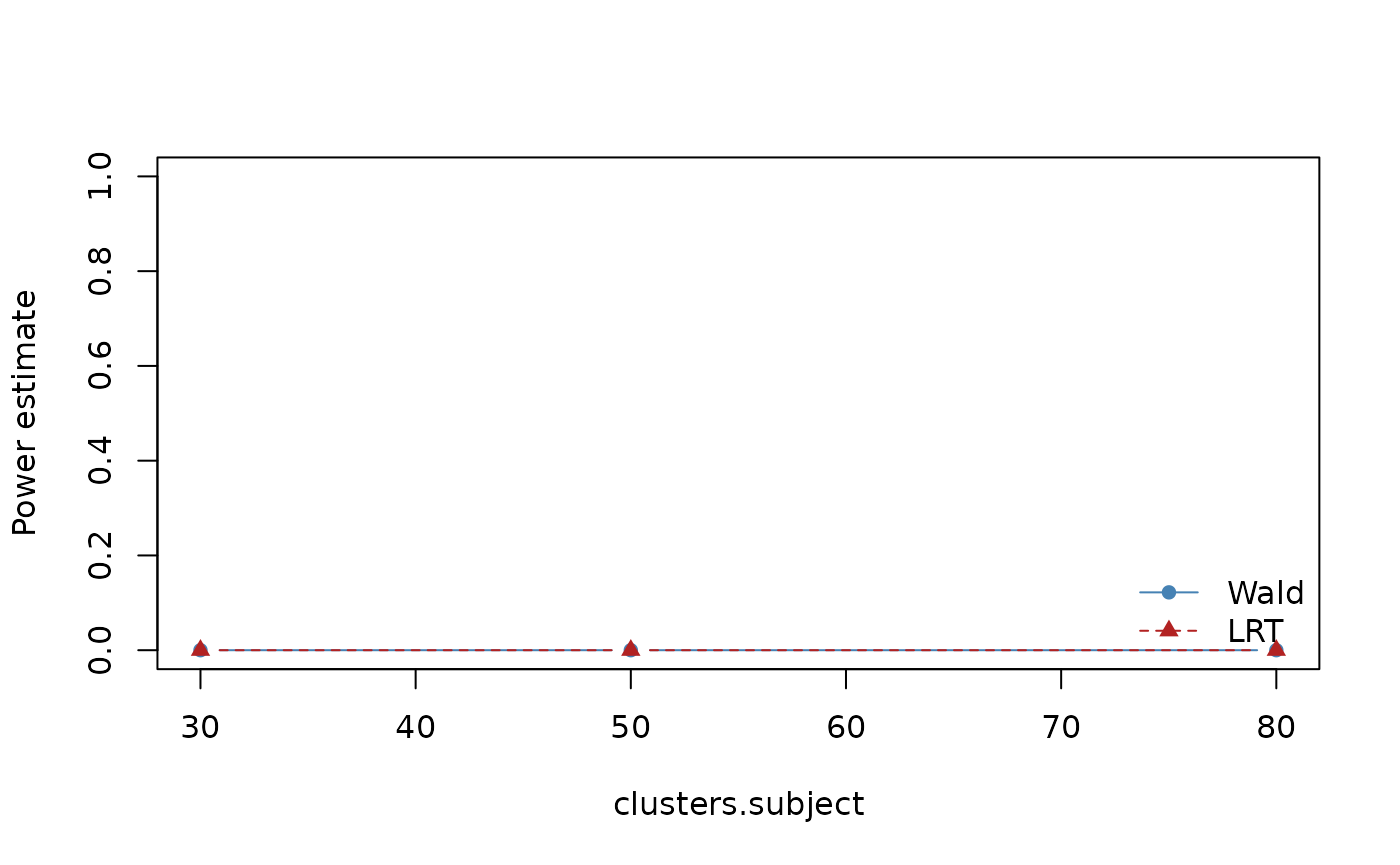
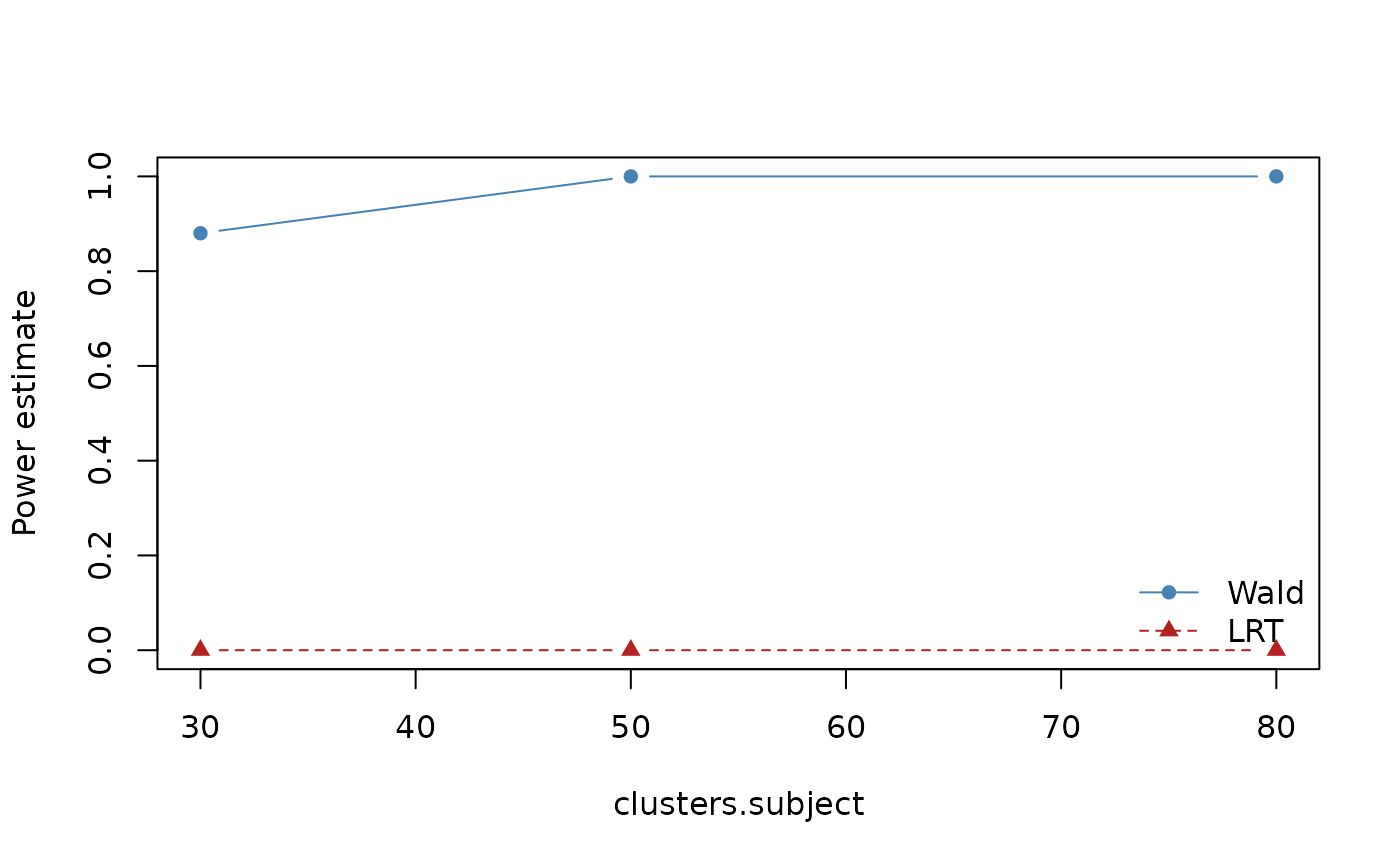
Deploying to gh-pages from @ alitovchenko/mixpower@3a943e7083a664c32a773ce0770256fef2704724 🚀

diff --git a/articles/mixpower-intro.html b/articles/mixpower-intro.html
@@ -296,13 +296,13 @@ transparent.</p>
 <span>  <span class="st">"method"</span>, <span class="st">"clusters.subject"</span>, <span class="st">"estimate"</span>, <span class="st">"mcse"</span>,</span>
 <span>  <span class="st">"conf_low"</span>, <span class="st">"conf_high"</span>, <span class="st">"failure_rate"</span>, <span class="st">"singular_rate"</span></span>
 <span><span class="op">)</span><span class="op">]</span></span>
-<span><span class="co">#&gt;   method clusters.subject estimate mcse conf_low conf_high failure_rate</span></span>
-<span><span class="co">#&gt; 1   wald               30        0    0        0         0            0</span></span>
-<span><span class="co">#&gt; 2   wald               50        0    0        0         0            0</span></span>
-<span><span class="co">#&gt; 3   wald               80        0    0        0         0            0</span></span>
-<span><span class="co">#&gt; 4    lrt               30        0    0        0         0            0</span></span>
-<span><span class="co">#&gt; 5    lrt               50        0    0        0         0            0</span></span>
-<span><span class="co">#&gt; 6    lrt               80        0    0        0         0            0</span></span>
+<span><span class="co">#&gt;   method clusters.subject estimate      mcse  conf_low conf_high failure_rate</span></span>
+<span><span class="co">#&gt; 1   wald               30     0.88 0.0459565 0.7899269 0.9700731            0</span></span>
+<span><span class="co">#&gt; 2   wald               50     1.00 0.0000000 1.0000000 1.0000000            0</span></span>
+<span><span class="co">#&gt; 3   wald               80     1.00 0.0000000 1.0000000 1.0000000            0</span></span>
+<span><span class="co">#&gt; 4    lrt               30     0.00 0.0000000 0.0000000 0.0000000            0</span></span>
+<span><span class="co">#&gt; 5    lrt               50     0.00 0.0000000 0.0000000 0.0000000            0</span></span>
+<span><span class="co">#&gt; 6    lrt               80     0.00 0.0000000 0.0000000 0.0000000            0</span></span>
 <span><span class="co">#&gt;   singular_rate</span></span>
 <span><span class="co">#&gt; 1          0.46</span></span>
 <span><span class="co">#&gt; 2          0.54</span></span>
@@ -381,13 +381,13 @@ p-values), preserving transparency.</p>
 <span><span class="co">#&gt; boundary (singular) fit: see help('isSingular')</span></span>
 <span><span class="fu"><a href="https://rdrr.io/r/base/summary.html" class="external-link">summary</a></span><span class="op">(</span><span class="va">res_bin</span><span class="op">)</span></span>
 <span><span class="co">#&gt; $power</span></span>
-<span><span class="co">#&gt; [1] 0</span></span>
+<span><span class="co">#&gt; [1] 0.62</span></span>
 <span><span class="co">#&gt; </span></span>
 <span><span class="co">#&gt; $mcse</span></span>
-<span><span class="co">#&gt; [1] 0</span></span>
+<span><span class="co">#&gt; [1] 0.06864401</span></span>
 <span><span class="co">#&gt; </span></span>
 <span><span class="co">#&gt; $ci</span></span>
-<span><span class="co">#&gt; [1] 0 0</span></span>
+<span><span class="co">#&gt; [1] 0.4854602 0.7545398</span></span>
 <span><span class="co">#&gt; </span></span>
 <span><span class="co">#&gt; $diagnostics</span></span>
 <span><span class="co">#&gt; $diagnostics$fail_rate</span></span>
@@ -441,10 +441,10 @@ p-values), preserving transparency.</p>
 <p><img src="mixpower-intro_files/figure-html/binomial-sensitivity-1.png" class="r-plt" alt="" width="700"></p>
 <div class="sourceCode" id="cb5"><pre class="downlit sourceCode r">
 <code class="sourceCode R"><span><span class="va">sens_bin</span><span class="op">$</span><span class="va">results</span></span>
-<span><span class="co">#&gt;   fixed_effects.condition estimate mcse conf_low conf_high failure_rate</span></span>
-<span><span class="co">#&gt; 1                     0.2        0    0        0         0            0</span></span>
-<span><span class="co">#&gt; 2                     0.4        0    0        0         0            0</span></span>
-<span><span class="co">#&gt; 3                     0.6        0    0        0         0            0</span></span>
+<span><span class="co">#&gt;   fixed_effects.condition estimate       mcse   conf_low conf_high failure_rate</span></span>
+<span><span class="co">#&gt; 1                     0.2     0.16 0.05184593 0.05838385 0.2616161            0</span></span>
+<span><span class="co">#&gt; 2                     0.4     0.42 0.06979971 0.28319508 0.5568049            0</span></span>
+<span><span class="co">#&gt; 3                     0.6     0.84 0.05184593 0.73838385 0.9416161            0</span></span>
 <span><span class="co">#&gt;   singular_rate n_effective nsim</span></span>
 <span><span class="co">#&gt; 1          0.12          50   50</span></span>
 <span><span class="co">#&gt; 2          0.10          50   50</span></span>
@@ -477,13 +477,13 @@ over-dispersion.</p>
 <span><span class="va">res_pois</span> <span class="op">&lt;-</span> <span class="fu"><a href="../reference/mp_power.html">mp_power</a></span><span class="op">(</span><span class="va">scn_pois</span>, nsim <span class="op">=</span> <span class="fl">50</span>, seed <span class="op">=</span> <span class="fl">123</span><span class="op">)</span></span>
 <span><span class="fu"><a href="https://rdrr.io/r/base/summary.html" class="external-link">summary</a></span><span class="op">(</span><span class="va">res_pois</span><span class="op">)</span></span>
 <span><span class="co">#&gt; $power</span></span>
-<span><span class="co">#&gt; [1] 0</span></span>
+<span><span class="co">#&gt; [1] 0.96</span></span>
 <span><span class="co">#&gt; </span></span>
 <span><span class="co">#&gt; $mcse</span></span>
-<span><span class="co">#&gt; [1] 0</span></span>
+<span><span class="co">#&gt; [1] 0.02771281</span></span>
 <span><span class="co">#&gt; </span></span>
 <span><span class="co">#&gt; $ci</span></span>
-<span><span class="co">#&gt; [1] 0 0</span></span>
+<span><span class="co">#&gt; [1] 0.9056839 1.0000000</span></span>
 <span><span class="co">#&gt; </span></span>
 <span><span class="co">#&gt; $diagnostics</span></span>
 <span><span class="co">#&gt; $diagnostics$fail_rate</span></span>
@@ -521,13 +521,13 @@ over-dispersion.</p>
 <span><span class="co">#&gt; boundary (singular) fit: see help('isSingular')</span></span>
 <span><span class="fu"><a href="https://rdrr.io/r/base/summary.html" class="external-link">summary</a></span><span class="op">(</span><span class="va">res_nb</span><span class="op">)</span></span>
 <span><span class="co">#&gt; $power</span></span>
-<span><span class="co">#&gt; [1] 0</span></span>
+<span><span class="co">#&gt; [1] 0.84</span></span>
 <span><span class="co">#&gt; </span></span>
 <span><span class="co">#&gt; $mcse</span></span>
-<span><span class="co">#&gt; [1] 0</span></span>
+<span><span class="co">#&gt; [1] 0.05184593</span></span>
 <span><span class="co">#&gt; </span></span>
 <span><span class="co">#&gt; $ci</span></span>
-<span><span class="co">#&gt; [1] 0 0</span></span>
+<span><span class="co">#&gt; [1] 0.7383839 0.9416161</span></span>
 <span><span class="co">#&gt; </span></span>
 <span><span class="co">#&gt; $diagnostics</span></span>
 <span><span class="co">#&gt; $diagnostics$fail_rate</span></span>
@@ -575,8 +575,10 @@ over-dispersion.</p>
 <span><span class="fu"><a href="https://rdrr.io/r/graphics/plot.default.html" class="external-link">plot</a></span><span class="op">(</span><span class="va">sens_pois</span><span class="op">)</span></span></code></pre></div>
 <p><img src="mixpower-intro_files/figure-html/count-sensitivity-1.png" class="r-plt" alt="" width="700"></p>
 <div class="sourceCode" id="cb8"><pre class="downlit sourceCode r">
-<code class="sourceCode R"><span><span class="fu"><a href="https://rdrr.io/r/graphics/plot.default.html" class="external-link">plot</a></span><span class="op">(</span><span class="va">sens_nb</span><span class="op">)</span></span>
-<span></span>
+<code class="sourceCode R"><span><span class="fu"><a href="https://rdrr.io/r/graphics/plot.default.html" class="external-link">plot</a></span><span class="op">(</span><span class="va">sens_nb</span><span class="op">)</span></span></code></pre></div>
+<p><img src="mixpower-intro_files/figure-html/count-sensitivity-2.png" class="r-plt" alt="" width="700"></p>
+<div class="sourceCode" id="cb9"><pre class="downlit sourceCode r">
+<code class="sourceCode R"><span></span>
 <span><span class="co"># Compare power estimates and failure/singularity rates across Poisson vs NB.</span></span>
 <span><span class="co"># Overdispersion can reduce power relative to Poisson.</span></span>
 <span><span class="co"># Increase nsim for final reports.</span></span></code></pre></div>

diff --git a/articles/mixpower-reproducibility.html b/articles/mixpower-reproducibility.html
@@ -148,10 +148,10 @@ repo.</p>
 <span><span class="co">#&gt; &lt;mp_manifest&gt;</span></span>
 <span><span class="co">#&gt;   scenario_digest: 9b663cd7e54e2ee4 ...</span></span>
 <span><span class="co">#&gt;   seed:123 (fixed)</span></span>
-<span><span class="co">#&gt;   timestamp: 2026-06-13 19:53:18 UTC </span></span>
+<span><span class="co">#&gt;   timestamp: 2026-06-15 21:05:06 UTC </span></span>
 <span><span class="co">#&gt;   r_version: 4.6.0 </span></span>
 <span><span class="co">#&gt;   mixpower_version: 0.2.0 </span></span>
-<span><span class="co">#&gt;   git_sha: 75b3868</span></span></code></pre></div>
+<span><span class="co">#&gt;   git_sha: 3a943e7</span></span></code></pre></div>
 </div>
 <div class="section level2">
 <h2 id="bundle-results-and-export">Bundle results and export<a class="anchor" aria-label="anchor" href="#bundle-results-and-export"></a>
@@ -175,15 +175,17 @@ and labels) to disk.</p>
 <span><span class="co">#&gt; &lt;mp_manifest&gt;</span></span>
 <span><span class="co">#&gt;   scenario_digest: 9b663cd7e54e2ee4 ...</span></span>
 <span><span class="co">#&gt;   seed:123 (fixed)</span></span>
-<span><span class="co">#&gt;   timestamp: 2026-06-13 19:53:18 UTC </span></span>
+<span><span class="co">#&gt;   timestamp: 2026-06-15 21:05:06 UTC </span></span>
 <span><span class="co">#&gt;   r_version: 4.6.0 </span></span>
 <span><span class="co">#&gt;   mixpower_version: 0.2.0 </span></span>
-<span><span class="co">#&gt;   git_sha: 75b3868</span></span></code></pre></div>
+<span><span class="co">#&gt;   git_sha: 3a943e7</span></span></code></pre></div>
 <div class="sourceCode" id="cb4"><pre class="downlit sourceCode r">
 <code class="sourceCode R"><span><span class="va">tab</span> <span class="op">&lt;-</span> <span class="fu"><a href="../reference/mp_report_table.html">mp_report_table</a></span><span class="op">(</span><span class="va">bundle</span><span class="op">)</span></span>
 <span><span class="va">tab</span></span>
-<span><span class="co">#&gt;   power_estimate ci_low ci_high failure_rate singular_rate n_effective nsim</span></span>
-<span><span class="co">#&gt; 1              0      0       0            0          0.55          20   20</span></span></code></pre></div>
+<span><span class="co">#&gt;   power_estimate    ci_low   ci_high failure_rate singular_rate n_effective</span></span>
+<span><span class="co">#&gt; 1            0.5 0.2808694 0.7191306            0          0.55          20</span></span>
+<span><span class="co">#&gt;   nsim</span></span>
+<span><span class="co">#&gt; 1   20</span></span></code></pre></div>
 <div class="sourceCode" id="cb5"><pre class="downlit sourceCode r">
 <code class="sourceCode R"><span><span class="fu"><a href="../reference/mp_write_results.html">mp_write_results</a></span><span class="op">(</span><span class="va">bundle</span>, <span class="st">"power_results.csv"</span>, format <span class="op">=</span> <span class="st">"csv"</span>, row.names <span class="op">=</span> <span class="cn">FALSE</span><span class="op">)</span></span>
 <span><span class="fu"><a href="../reference/mp_write_results.html">mp_write_results</a></span><span class="op">(</span><span class="va">bundle</span>, <span class="st">"power_results.json"</span>, format <span class="op">=</span> <span class="st">"json"</span><span class="op">)</span></span></code></pre></div>
@@ -246,9 +248,9 @@ to a log) by building it from the list, omitting the long
 <span><span class="co">#&gt;                                                    scenario_digest seed</span></span>
 <span><span class="co">#&gt; 1 9b663cd7e54e2ee4cef1c3f2b63b4796a86f4f365916fd35865354e676268028  123</span></span>
 <span><span class="co">#&gt;   seed_strategy               timestamp r_version mixpower_version</span></span>
-<span><span class="co">#&gt; 1         fixed 2026-06-13 19:53:19 UTC     4.6.0            0.2.0</span></span>
+<span><span class="co">#&gt; 1         fixed 2026-06-15 21:05:06 UTC     4.6.0            0.2.0</span></span>
 <span><span class="co">#&gt;                                    git_sha</span></span>
-<span><span class="co">#&gt; 1 75b3868b73f6d1160000af15fbcd911f509ab459</span></span></code></pre></div>
+<span><span class="co">#&gt; 1 3a943e7083a664c32a773ce0770256fef2704724</span></span></code></pre></div>
 </div>
   </div>
 

diff --git a/articles/mixpower-diagnostics.html b/articles/mixpower-diagnostics.html
@@ -153,10 +153,10 @@ summarize sensitivity analyses with <code><a href="../reference/mp_sensitivity.h
 <span><span class="co">#&gt; boundary (singular) fit: see help('isSingular')</span></span>
 <span></span>
 <span><span class="va">sens</span><span class="op">$</span><span class="va">results</span><span class="op">[</span>, <span class="fu"><a href="https://rdrr.io/r/base/c.html" class="external-link">c</a></span><span class="op">(</span><span class="st">"estimate"</span>, <span class="st">"mcse"</span>, <span class="st">"failure_rate"</span>, <span class="st">"singular_rate"</span><span class="op">)</span><span class="op">]</span></span>
-<span><span class="co">#&gt;   estimate mcse failure_rate singular_rate</span></span>
-<span><span class="co">#&gt; 1        0    0            0           0.7</span></span>
-<span><span class="co">#&gt; 2        0    0            0           0.8</span></span>
-<span><span class="co">#&gt; 3        0    0            0           0.9</span></span></code></pre></div>
+<span><span class="co">#&gt;   estimate       mcse failure_rate singular_rate</span></span>
+<span><span class="co">#&gt; 1      0.1 0.09486833            0           0.7</span></span>
+<span><span class="co">#&gt; 2      0.7 0.14491377            0           0.8</span></span>
+<span><span class="co">#&gt; 3      0.8 0.12649111            0           0.9</span></span></code></pre></div>
   </div>
 
   <div class="col-md-3 hidden-xs hidden-sm" id="pkgdown-sidebar">

diff --git a/articles/mixpower-simulations.html b/articles/mixpower-simulations.html
@@ -129,13 +129,13 @@ to summarize results with <code><a href="https://rdrr.io/r/base/summary.html" cl
 <span><span class="co">#&gt; boundary (singular) fit: see help('isSingular')</span></span>
 <span><span class="fu"><a href="https://rdrr.io/r/base/summary.html" class="external-link">summary</a></span><span class="op">(</span><span class="va">res</span><span class="op">)</span></span>
 <span><span class="co">#&gt; $power</span></span>
-<span><span class="co">#&gt; [1] 0</span></span>
+<span><span class="co">#&gt; [1] 0.7</span></span>
 <span><span class="co">#&gt; </span></span>
 <span><span class="co">#&gt; $mcse</span></span>
-<span><span class="co">#&gt; [1] 0</span></span>
+<span><span class="co">#&gt; [1] 0.1449138</span></span>
 <span><span class="co">#&gt; </span></span>
 <span><span class="co">#&gt; $ci</span></span>
-<span><span class="co">#&gt; [1] 0 0</span></span>
+<span><span class="co">#&gt; [1] 0.4159742 0.9840258</span></span>
 <span><span class="co">#&gt; </span></span>
 <span><span class="co">#&gt; $diagnostics</span></span>
 <span><span class="co">#&gt; $diagnostics$fail_rate</span></span>

diff --git a/reference/mixpower-package.html b/reference/mixpower-package.html
@@ -178,13 +178,13 @@ Vignettes: <code>vignette(package = "mixpower")</code>.</p></div>
 <span class="r-in"><span><span class="va">res</span> <span class="op">&lt;-</span> <span class="fu"><a href="mp_power.html">mp_power</a></span><span class="op">(</span><span class="va">scn</span>, nsim <span class="op">=</span> <span class="fl">50</span>, seed <span class="op">=</span> <span class="fl">123</span><span class="op">)</span></span></span>
 <span class="r-in"><span><span class="fu"><a href="https://rdrr.io/r/base/summary.html" class="external-link">summary</a></span><span class="op">(</span><span class="va">res</span><span class="op">)</span></span></span>
 <span class="r-out co"><span class="r-pr">#&gt;</span> $power</span>
-<span class="r-out co"><span class="r-pr">#&gt;</span> [1] 0</span>
+<span class="r-out co"><span class="r-pr">#&gt;</span> [1] 0.42</span>
 <span class="r-out co"><span class="r-pr">#&gt;</span> </span>
 <span class="r-out co"><span class="r-pr">#&gt;</span> $mcse</span>
-<span class="r-out co"><span class="r-pr">#&gt;</span> [1] 0</span>
+<span class="r-out co"><span class="r-pr">#&gt;</span> [1] 0.06979971</span>
 <span class="r-out co"><span class="r-pr">#&gt;</span> </span>
 <span class="r-out co"><span class="r-pr">#&gt;</span> $ci</span>
-<span class="r-out co"><span class="r-pr">#&gt;</span> [1] 0 0</span>
+<span class="r-out co"><span class="r-pr">#&gt;</span> [1] 0.2831951 0.5568049</span>
 <span class="r-out co"><span class="r-pr">#&gt;</span> </span>
 <span class="r-out co"><span class="r-pr">#&gt;</span> $diagnostics</span>
 <span class="r-out co"><span class="r-pr">#&gt;</span> $diagnostics$fail_rate</span>

diff --git a/reference/mp_quick_power.html b/reference/mp_quick_power.html
@@ -200,9 +200,9 @@ Include intercept as <code>(Intercept)</code> if needed.</p></dd>
 <span class="r-out co"><span class="r-pr">#&gt;</span>   nsim: 50</span>
 <span class="r-out co"><span class="r-pr">#&gt;</span>   alpha: 0.05</span>
 <span class="r-out co"><span class="r-pr">#&gt;</span>   failure_policy: count_as_nondetect</span>
-<span class="r-out co"><span class="r-pr">#&gt;</span>   power: 0.000</span>
-<span class="r-out co"><span class="r-pr">#&gt;</span>   mcse: 0.000</span>
-<span class="r-out co"><span class="r-pr">#&gt;</span>   95% CI: [0.000, 0.000]</span>
+<span class="r-out co"><span class="r-pr">#&gt;</span>   power: 0.640</span>
+<span class="r-out co"><span class="r-pr">#&gt;</span>   mcse: 0.068</span>
+<span class="r-out co"><span class="r-pr">#&gt;</span>   95% CI: [0.507, 0.773]</span>
 <span class="r-out co"><span class="r-pr">#&gt;</span>   diagnostics:</span>
 <span class="r-out co"><span class="r-pr">#&gt;</span>     - fail_rate: 0.000</span>
 <span class="r-out co"><span class="r-pr">#&gt;</span>     - singular_rate: 0.000</span>

diff --git a/news/index.html b/news/index.html
@@ -76,7 +76,8 @@
 <h2 class="page-header" data-toc-text="0.2.0" id="mixpower-020">mixpower 0.2.0<a class="anchor" aria-label="anchor" href="#mixpower-020"></a></h2>
 <div class="section level3">
 <h3 id="correctness-0-2-0">Correctness<a class="anchor" aria-label="anchor" href="#correctness-0-2-0"></a></h3>
-<ul><li>Fixed a defect where the Gaussian backends ignored the random-intercept SD: <code><a href="../reference/mp_scenario_lme4.html">mp_scenario_lme4()</a></code> / <code><a href="../reference/mp_scenario_glmmtmb_lmm.html">mp_scenario_glmmtmb_lmm()</a></code> always simulated a subject SD of 1, so <code><a href="../reference/mp_sensitivity.html">mp_sensitivity()</a></code> / <code><a href="../reference/mp_power_curve.html">mp_power_curve()</a></code> over a random-effect size had no effect. Random-effect SDs now flow from <code><a href="../reference/mp_assumptions.html">mp_assumptions()</a></code> for every family (Gaussian, binomial, Poisson, negative binomial).</li>
+<ul><li>Fixed a severe defect where every lme4-family Wald test errored internally (<code><a href="https://rdrr.io/r/base/diag.html" class="external-link">base::diag()</a></code> on the S4 <code>dpoMatrix</code> from <code>vcov(merMod)</code>), so <code><a href="../reference/mp_power.html">mp_power()</a></code> silently returned 0 for all lme4 Gaussian/binomial/Poisson/NB designs. The standard error is now read from the fitted-model coefficient table. Power is correct (≈1 at a strongly-powered design; ≈alpha under the null).</li>
+<li>Fixed a defect where the Gaussian backends ignored the random-intercept SD: <code><a href="../reference/mp_scenario_lme4.html">mp_scenario_lme4()</a></code> / <code><a href="../reference/mp_scenario_glmmtmb_lmm.html">mp_scenario_glmmtmb_lmm()</a></code> always simulated a subject SD of 1, so <code><a href="../reference/mp_sensitivity.html">mp_sensitivity()</a></code> / <code><a href="../reference/mp_power_curve.html">mp_power_curve()</a></code> over a random-effect size had no effect. Random-effect SDs now flow from <code><a href="../reference/mp_assumptions.html">mp_assumptions()</a></code> for every family (Gaussian, binomial, Poisson, negative binomial).</li>
 </ul></div>
 <div class="section level3">
 <h3 id="api-0-2-0">API<a class="anchor" aria-label="anchor" href="#api-0-2-0"></a></h3>